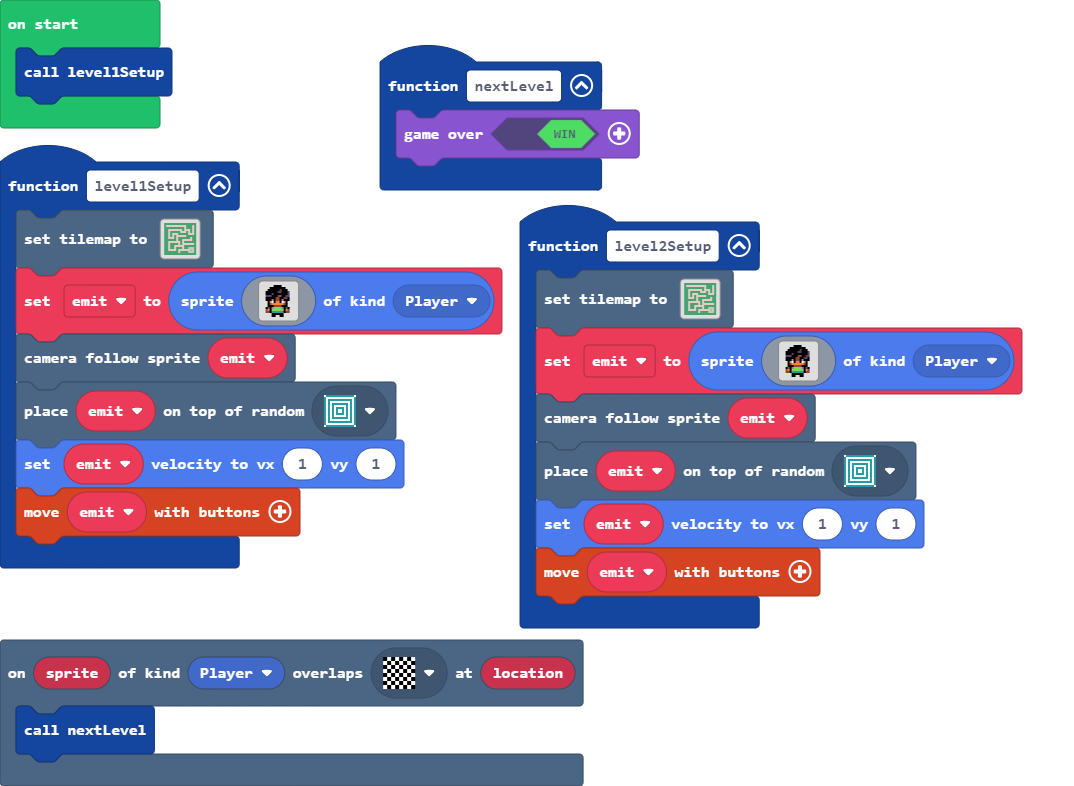
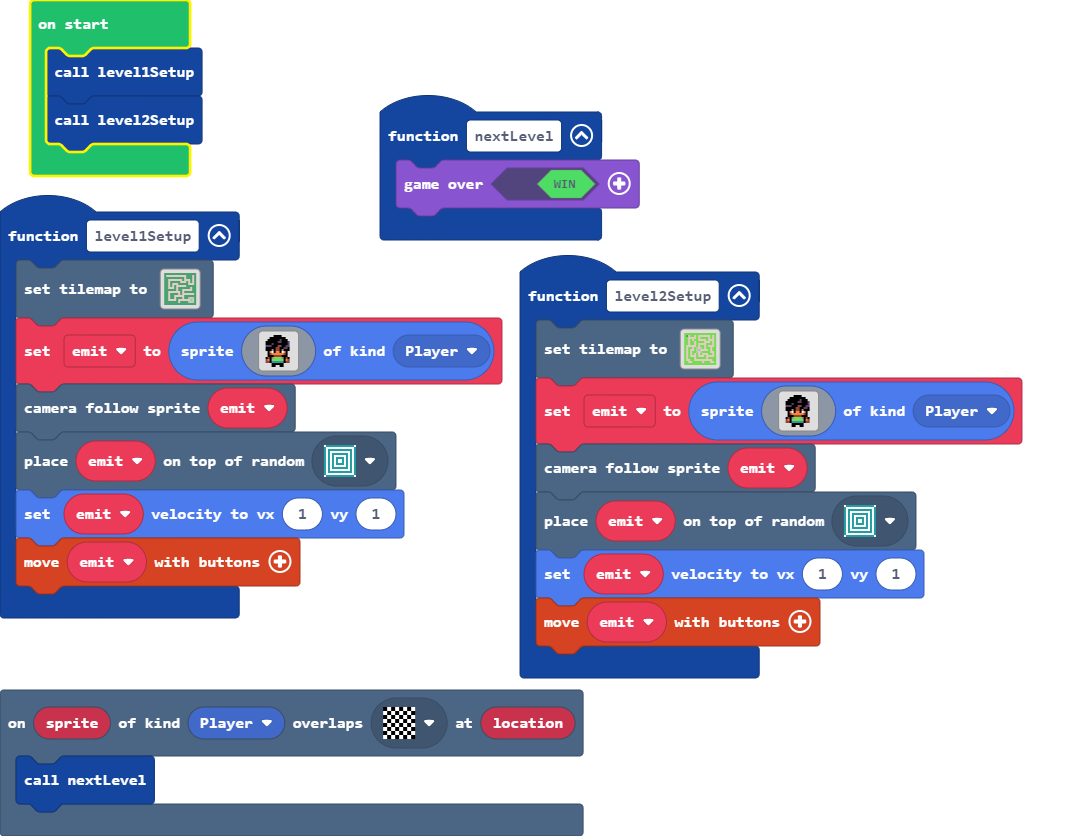
Update main.blocks, main.ts, tilemap.g.jres, tilemap.g.ts

diff --git a/tilemap.g.ts b/tilemap.g.ts
@@ -34,25 +34,6 @@ namespace myTiles {
 2 2 2 2 2 2 2 . 2 2 2 2 . . . 2 
 2 2 2 2 2 2 2 2 2 2 2 2 2 2 2 2 
 `, [myTiles.transparency16,myTiles.tile1,sprites.castle.tilePath9,sprites.castle.tilePath8,sprites.castle.tilePath5,sprites.castle.tilePath2,sprites.castle.tilePath3,sprites.castle.tilePath6,sprites.castle.tilePath7,sprites.castle.tilePath1,sprites.builtin.forestTiles0,myTiles.tile4], TileScale.Sixteen);
-            case "level3":
-            case "level3":return tiles.createTilemap(hex`1000100000000000000000000000000000000000000000000000000000000000000000000000000000000000000000000000000000000000000000000000000000000000000000000000000000000000000000000000000000000000000000000000000000000000000000000000000000000000000000000000000000000000000000000000000000000000000000000000000000000000000000000000000000000000000000000000000000000000000000000000000000000000000000000000000000000000000000000000000000000000000000000000000000000000000000000000000000000000000000000000000000000000000000000000000000000000`, img`
-. . . . . . . . . . . . . . . . 
-. . . . . . . . . . . . . . . . 
-. . . . . . . . . . . . . . . . 
-. . . . . . . . . . . . . . . . 
-. . . . . . . . . . . . . . . . 
-. . . . . . . . . . . . . . . . 
-. . . . . . . . . . . . . . . . 
-. . . . . . . . . . . . . . . . 
-. . . . . . . . . . . . . . . . 
-. . . . . . . . . . . . . . . . 
-. . . . . . . . . . . . . . . . 
-. . . . . . . . . . . . . . . . 
-. . . . . . . . . . . . . . . . 
-. . . . . . . . . . . . . . . . 
-. . . . . . . . . . . . . . . . 
-. . . . . . . . . . . . . . . . 
-`, [myTiles.transparency16], TileScale.Sixteen);
             case "level4":
             case "level4":return tiles.createTilemap(hex`1000100000000000000000000000000000000000000000000000000000000000000000000000000000000000000000000000000000000000000000000000000000000000000000000000000000000000000000000000000000000000000000000000000000000000000000000000000000000000000000000000000000000000000000000000000000000000000000000000000000000000000000000000000000000000000000000000000000000000000000000000000000000000000000000000000000000000000000000000000000000000000000000000000000000000000000000000000000000000000000000000000000000000000000000000000000000000`, img`
 . . . . . . . . . . . . . . . . 
@@ -73,7 +54,7 @@ namespace myTiles {
 . . . . . . . . . . . . . . . . 
 `, [myTiles.transparency16], TileScale.Sixteen);
             case "level5":
-            case "level2":return tiles.createTilemap(hex`18001800050505050505050505050505050505050505050505050505050303030303030303010303030303030202020202030305050304020202020202020303020202030203030302030305050304020402040303030303020302030203020202030305050304020402020202020203020302020203020303030305050304020404040303030204020404030303020302020205050302020202040202040202020302020204020302030205050302030303040203040203030302030204020202030205050302030202020202020204040302030303030303030205050302040203030203040404020202020202020202020205050302030203030202020203020404040402030303030305050202030203030303030303020302020202040202020205050203030202020204020202020202030303030202020205050204040404030303030302030402030202020202020205050204040303020202020202040302030203030202020205050202020202030403030304030302040204040202020205050303030302040202020202020202030204040302030305050303020202020204020402030303030204040302020205050304020402040203020302030202020202020202030205050202020402040203020302030203030303030203030205050204040402020202020302030302020202030203030205050202020404020303030302020202030303030203030205050304020204020202020303030302020202020202020205050505050505050505050505050505050505050505050505`, img`
+            case "level2":return tiles.createTilemap(hex`18001800050505050505050505050505050505050505050505050505050303030303030303010303030303030202020202030305050304020202020202020303020202030203030302030305050304020402040303030303020302030203020202030305050304020402020202020203020302020203020303030305050304020404040303030204020404030303020302020205050302020202040202040202020302020204020302030205050302030303040203040203030302030204020202030205050302030202020202020204040302030303030303030205050302040203030203040404020202020202020202020205050302030203030202020203020404040402030303030305050202030203030303030303020302020202040202020205050203030202020204020202020202030303030202020205050204040404030303030302030402030202020202060205050204040303020202020202040302030203030202020205050202020202030403030304030302040204040202020205050303030302040202020202020202030204040302030305050303020202020204020402030303030204040302020205050304020402040203020302030202020202020202030205050202020402040203020302030203030303030203030205050204040402020202020302030302020202030203030205050202020404020303030302020202030303030203030205050304020204020202020303030302020202020202020205050505050505050505050505050505050505050505050505`, img`
 222222222222222222222222
 222222222.222222.....222
 222.......22...2.222.222
@@ -98,7 +79,26 @@ namespace myTiles {
 2...22.2222....2222.22.2
 222..2....2222.........2
 222222222222222222222222
-`, [myTiles.transparency16,myTiles.tile1,myTiles.tile2,sprites.castle.tileDarkGrass3,sprites.castle.tileDarkGrass1,myTiles.tile5], TileScale.Sixteen);
+`, [myTiles.transparency16,myTiles.tile1,myTiles.tile2,sprites.castle.tileDarkGrass3,sprites.castle.tileDarkGrass1,myTiles.tile5,myTiles.tile4], TileScale.Sixteen);
+            case "level0":
+            case "level3":return tiles.createTilemap(hex`1000100009090909090909090909090909090909090302090902090202020202020902090909020202020902090909090209020909090209020909020202020902020209090902090902090909090202020902090909020909020902020202090909020909020202020209020909020902020209090209090209070208090209090209090902090202090401020202020902090909020902090905020609090909020209090209020902090209020202090902090902090202020902020209020202020909020909090209090909090209090909090202090902020202020202020209090909020209090909090209090902020909090909090909090909090909090909`, img`
+2 2 2 2 2 2 2 2 2 2 2 2 2 2 2 2 
+2 . . 2 2 . 2 . . . . . . 2 . 2 
+2 2 . . . . 2 . 2 2 2 2 . 2 . 2 
+2 2 . 2 . 2 2 . . . . 2 . . . 2 
+2 2 . 2 2 . 2 2 2 2 . . . 2 . 2 
+2 2 . 2 2 . 2 . . . . 2 2 2 . 2 
+2 . . . . . 2 . 2 2 . 2 . . . 2 
+2 . 2 2 . 2 . . . 2 . 2 2 . 2 2 
+2 . 2 . . 2 . . . . . . 2 . 2 2 
+2 . 2 . 2 2 . . . 2 2 2 2 . . 2 
+2 . 2 . 2 . 2 . 2 . . . 2 2 . 2 
+2 . 2 . . . 2 . . . 2 . . . . 2 
+2 . 2 2 2 . 2 2 2 2 2 . 2 2 2 2 
+2 . . 2 2 . . . . . . . . . 2 2 
+2 2 . . 2 2 2 2 2 . 2 2 2 . . 2 
+2 2 2 2 2 2 2 2 2 2 2 2 2 2 2 2 
+`, [myTiles.transparency16,myTiles.tile4,sprites.castle.tilePath5,myTiles.tile1,sprites.castle.tilePath4,sprites.castle.tilePath7,sprites.castle.tilePath9,sprites.castle.tilePath1,sprites.castle.tilePath3,sprites.skillmap.islandTile4], TileScale.Sixteen);
         }
         return null;
     })

diff --git a/main.ts b/main.ts
@@ -1,5 +1,5 @@
 function level2Setup () {
-    tiles.setTilemap(tilemap`level1`)
+    tiles.setTilemap(tilemap`level0`)
     emit = sprites.create(assets.image`myImage`, SpriteKind.Player)
     scene.cameraFollowSprite(emit)
     tiles.placeOnRandomTile(emit, assets.tile`teleporter`)
@@ -22,3 +22,4 @@ function level1Setup () {
 }
 let emit: Sprite = null
 level1Setup()
+level2Setup()
